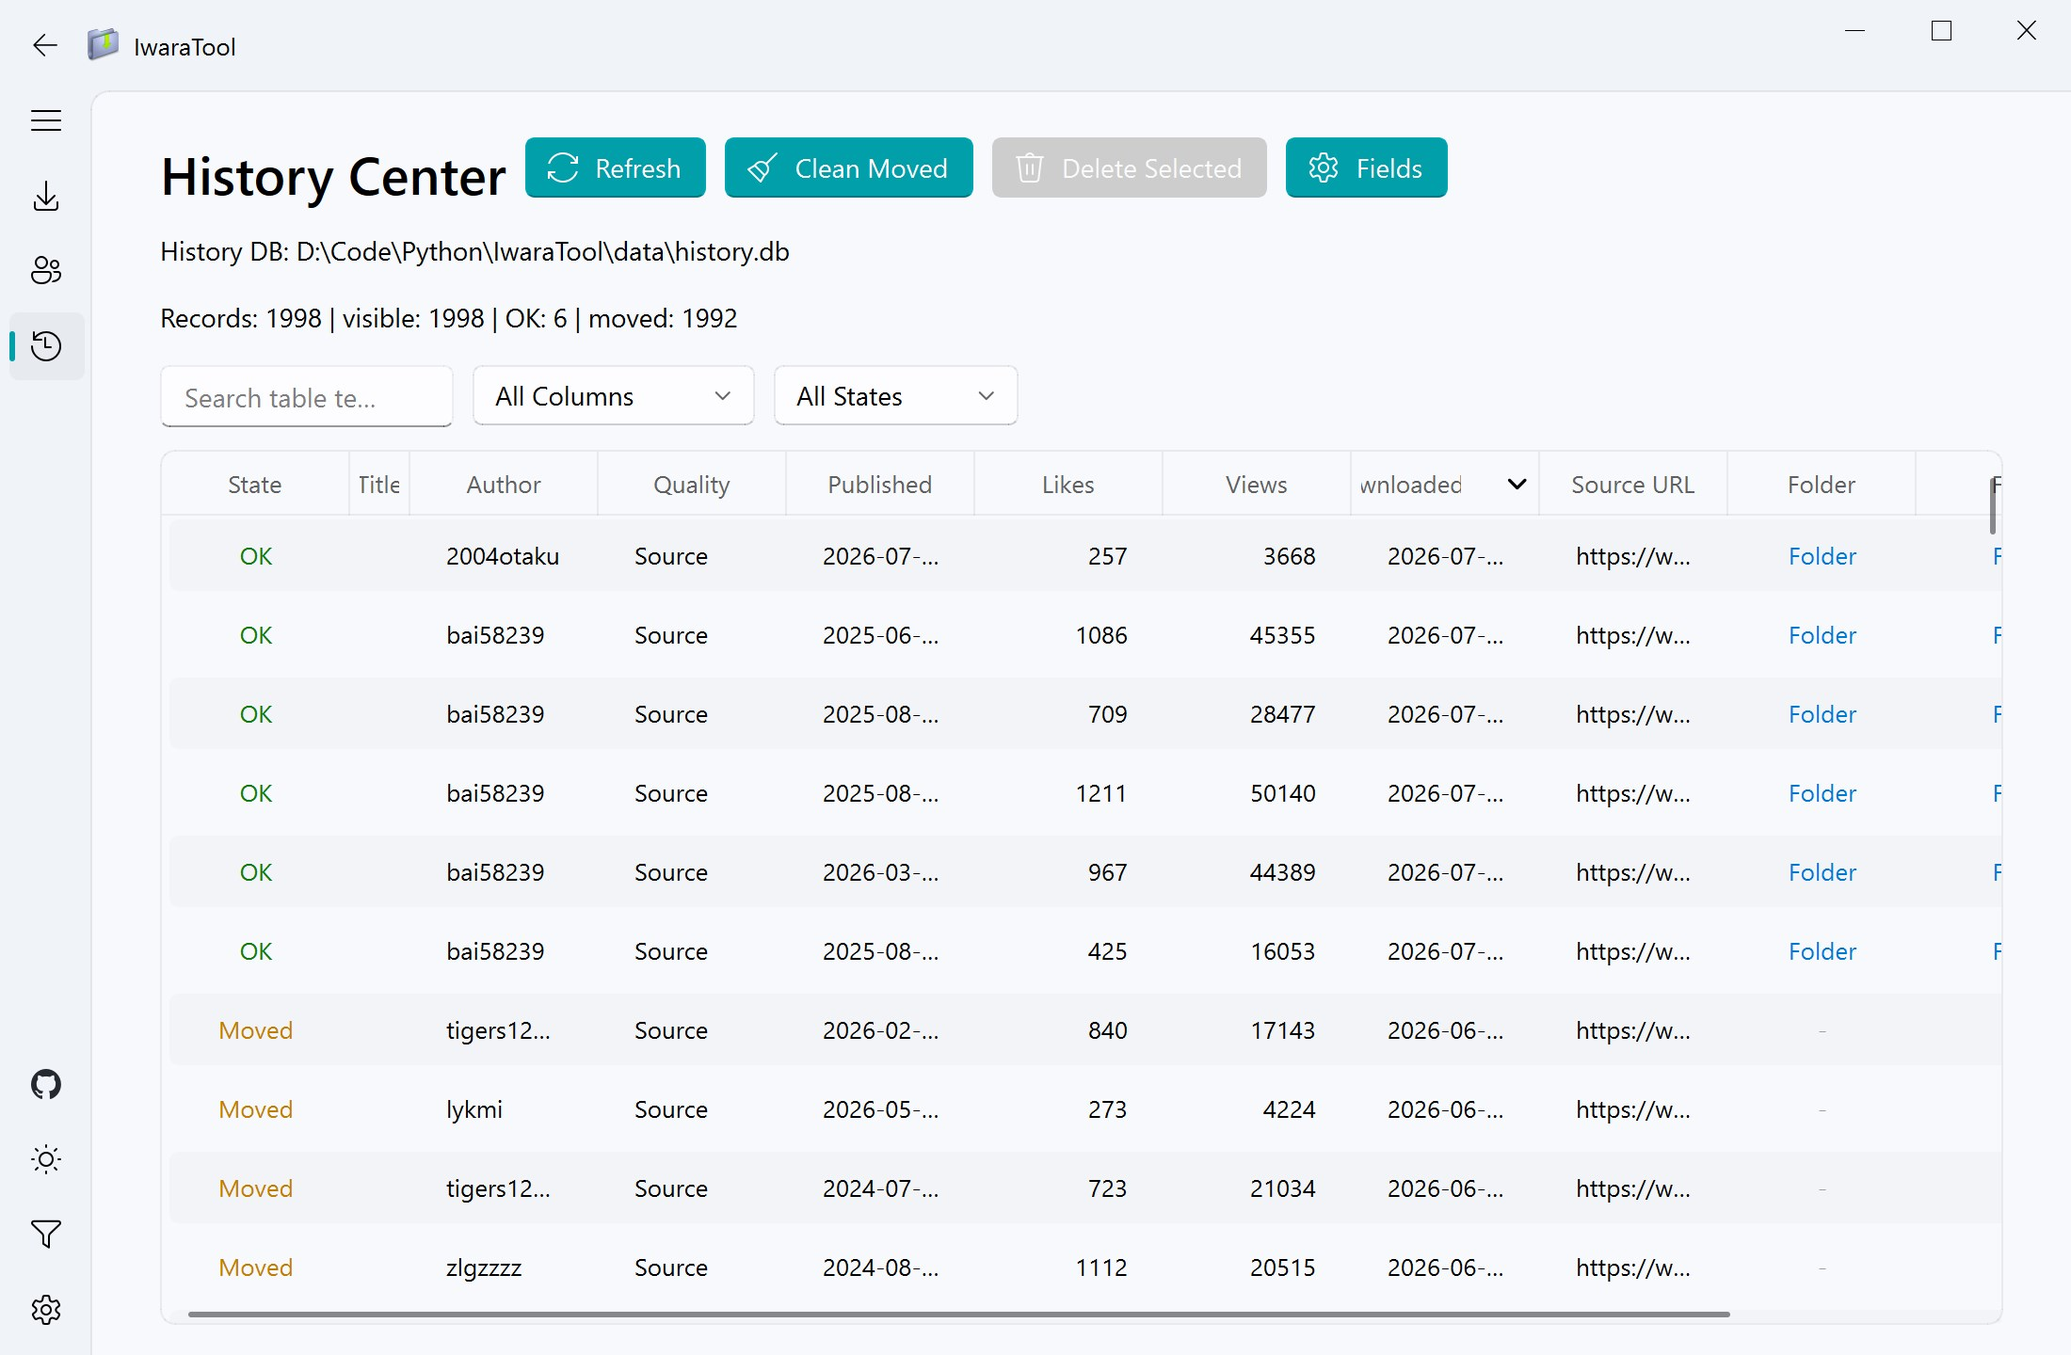
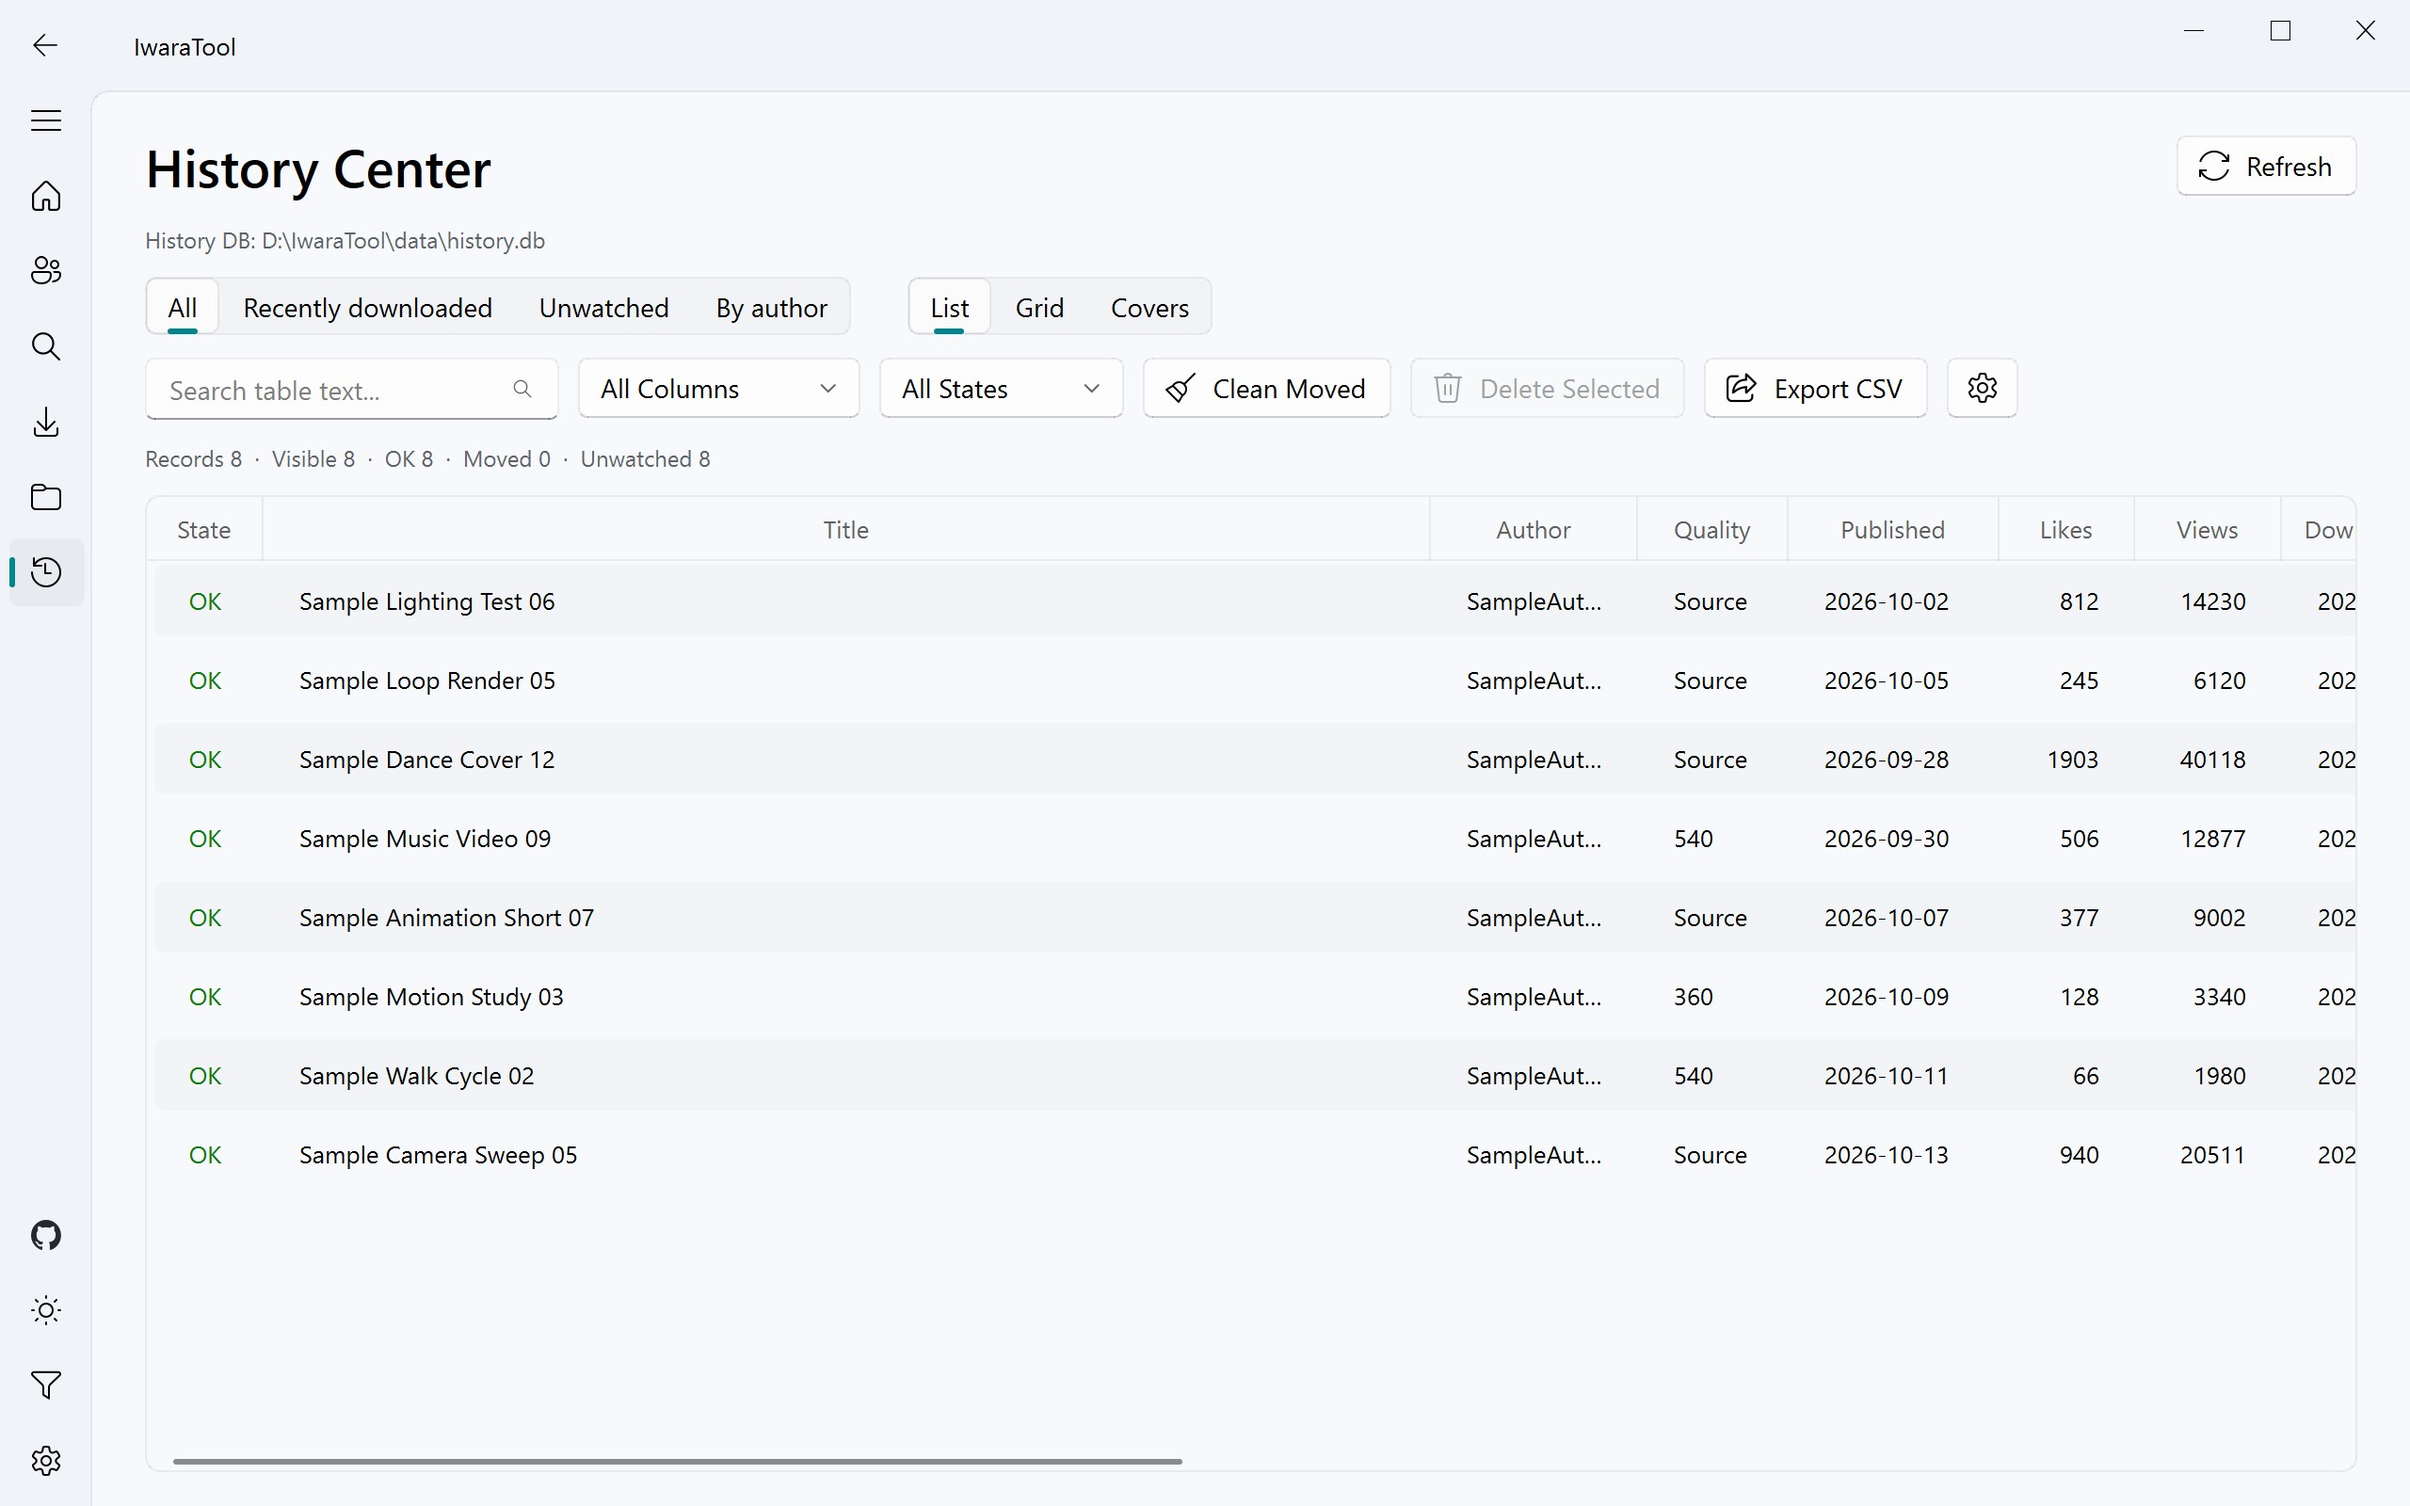
Release v1.1.3 with English screenshots and page rule notes
Retake the six panel screenshots with the English interface, sample
data and no cover or avatar images, and describe the rule per page in
the readme. Bump the version to 1.1.3 and add its release notes.

diff --git a/app/version.py b/app/version.py
@@ -1,3 +1,3 @@
 """Single source of truth for the packaged application version."""
 
-__version__ = "1.1.2"
+__version__ = "1.1.3"

diff --git a/docs/releases/v1.1.3.md b/docs/releases/v1.1.3.md
@@ -1,0 +1,31 @@
+# IwaraTool v1.1.3
+
+本次更新让每个页面使用各自的下载规则（[#13](https://github.com/Moeary/IwaraTool/issues/13)），新增“临时下载”规则，并为 Windows 发布包加入版本信息与代码签名流程。
+
+## 每页独立的下载规则
+
+- 订阅、搜索、视频详情、首页与下载链接各自保存所选规则，不再共用一个全局生效的规则；页面设为“跟随默认”时，使用规则页中标有 ● 的默认规则。
+- 规则页新增“每页规则”一行选择器，置于规则列表与编辑器之上，不再看起来像是所选规则的一部分；列表中的每条规则会注明哪些页面正在使用它。
+- 新增可编辑的“临时下载”规则，保存到 `temp_video/{title}_{id}.mp4` 且不写入历史，是搜索与视频详情的默认规则。
+- 临时副本不再阻碍之后对同一视频的正式下载：已完成的任务在再次入队时被释放，不计入已有文件索引；无历史规则的固定前置文件夹在建立索引时被跳过。
+
+## Windows 发布与签名
+
+- 新增 `scripts/build_windows.py` 取代 `pixi run build` 与发布流程中的内联 Nuitka 命令：写入公司、产品、版本与版权信息；设置 `WINDOWS_SIGN_PFX` / `WINDOWS_SIGN_PFX_BASE64` 与 `WINDOWS_SIGN_PFX_PASSWORD` 后会自动做 Authenticode 签名并加时间戳；`--sign-only <exe>` 可只签名已有文件。
+- 标签构建可经 SignPath 签名 Windows exe，并在替换前校验 Authenticode 状态；设置 `SIGNPATH_ORGANIZATION_ID` 之前这些步骤会被跳过。
+- 英文 readme 新增“Code signing policy”与隐私说明，列出程序会访问的全部服务。
+- 在已激活的 pixi 终端中再次运行 pixi 时，不再出现 `SSL_CERT_DIR` 为空的警告。
+
+## 文档
+
+- readme 的截图改为以英文界面、示例数据重新截取，且不含任何封面或头像图片。
+
+## 下载
+
+- Windows AMD64：`IwaraTool-Windows-AMD64-v1.1.3.exe`。
+- Linux AMD64：`IwaraTool-Linux-AMD64-v1.1.3`。
+- macOS：`IwaraTool-macOS-ARM64-v1.1.3.zip` / `IwaraTool-macOS-AMD64-v1.1.3.zip`。未使用 Developer ID 签名与公证；若系统阻止打开，请按“隐私与安全性”的提示允许该应用。
+- 应用内不提供自动替换更新：请从 Release 页面下载新版本，覆盖旧程序即可，程序旁的 `data` 目录会保留全部设置、队列与历史。
+- 每个发布包附带 `.sha256` 校验文件。
+
+**完整提交对比**：[v1.1.2…v1.1.3](https://github.com/Moeary/IwaraTool/compare/v1.1.2...v1.1.3)

diff --git a/readme.md b/readme.md
@@ -18,6 +18,7 @@ Docs: [Wiki](https://github.com/Moeary/IwaraTool/wiki) · [API notes](./docs/API
 - Video preview: double-click a video anywhere to play it. Downloaded files open in the player you choose (system default, built-in, or a custom command); videos not on disk or already moved stream in a built-in window with play/pause, seeking, speed, volume, fullscreen and hold-to-speed-up.
 - Subscriptions: authors and playlists with refresh tracking and new-item counts; the default overview lists each one with its avatar and latest videos, opens into a poster grid, and the classic table is one click away.
 - Named rules for likes, views, dates, tags, title keywords, naming templates, and download behavior; NFO sidecar generation.
+- Rule per page: Subscriptions, Search, Video details, Home and Download links each download with their own rule. The built-in "Temporary Download" rule (default for Search and Video details) saves to its own folder without writing history, and a temporary copy never blocks a later real download.
 - Home: customizable rows (your subscriptions, hot lists, or any tag / keyword / author search), cached on disk and refreshed only when posts change; in-app detail pages, Like and bulk download; a SFW / NSFW content filter applies to Home and Search.
 - Author pages: open an author inside the app from Search or a detail page, see whether you subscribe in the app or follow on Iwara, and subscribe / follow right there.
 - Shortcuts: press F1 for the full list (rebindable in Settings); cover grids work with arrow keys, Enter, Space and more.
@@ -55,6 +56,8 @@ https://api.iwara.tv/videos?tags=2d&sort=date
 
 ## Screenshots
 
+All screenshots use the English interface with sample data and no cover images.
+
 1. Download Workbench
 
    ![Download Workbench](./docs/panel_view/iwaratool_download_panel.jpg)
@@ -67,7 +70,7 @@ https://api.iwara.tv/videos?tags=2d&sort=date
 4. History
 
    ![History](./docs/panel_view/iwaratool_history_panel.jpg)
-5. Rules
+5. Rules (including the rule per page)
 
    ![Rules](./docs/panel_view/iwaratool_rule_panel.jpg)
 6. Settings
